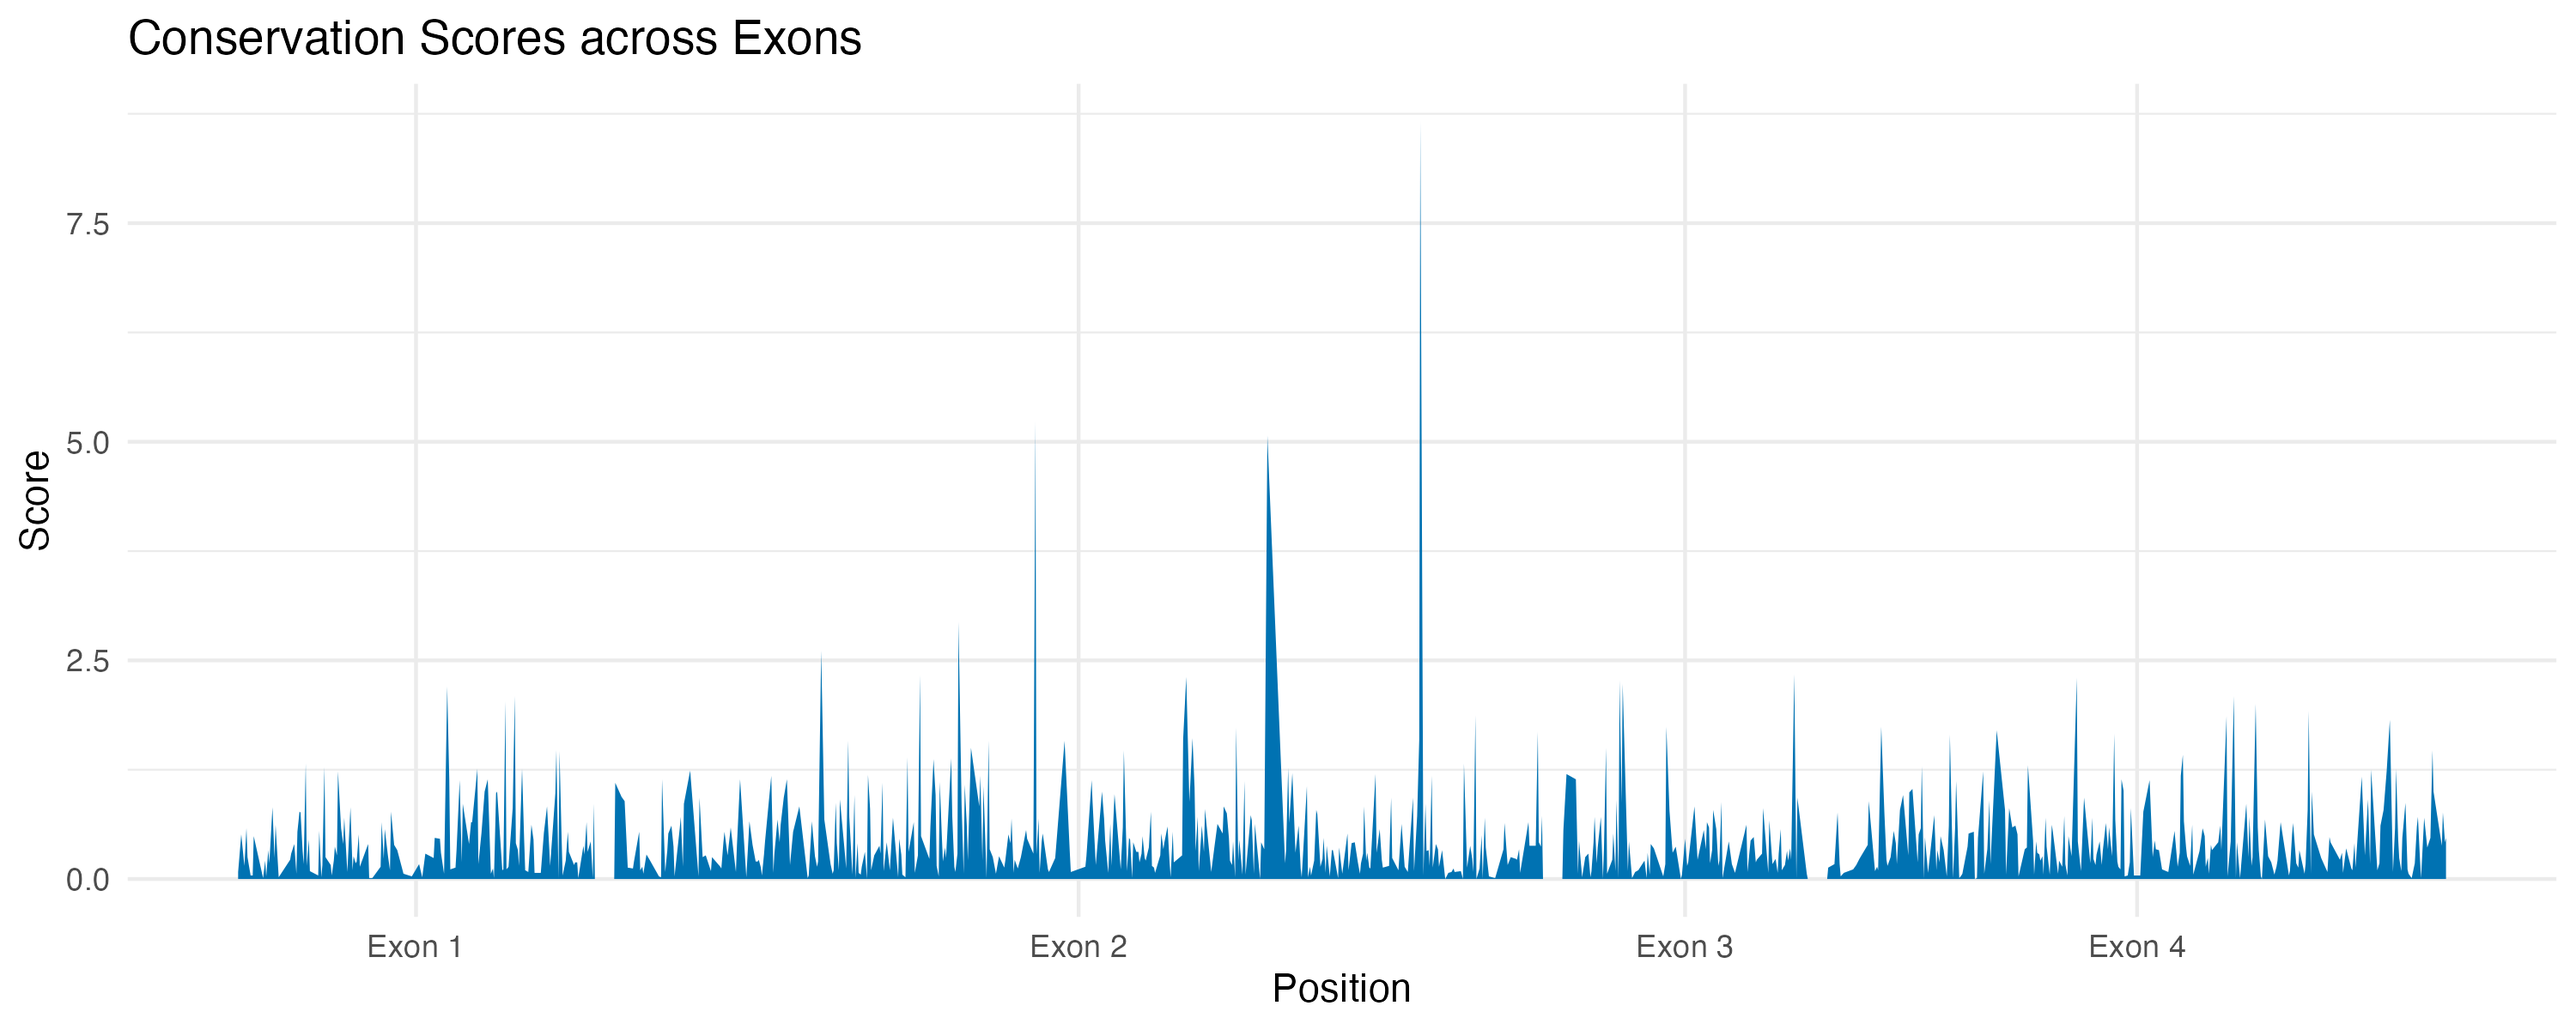
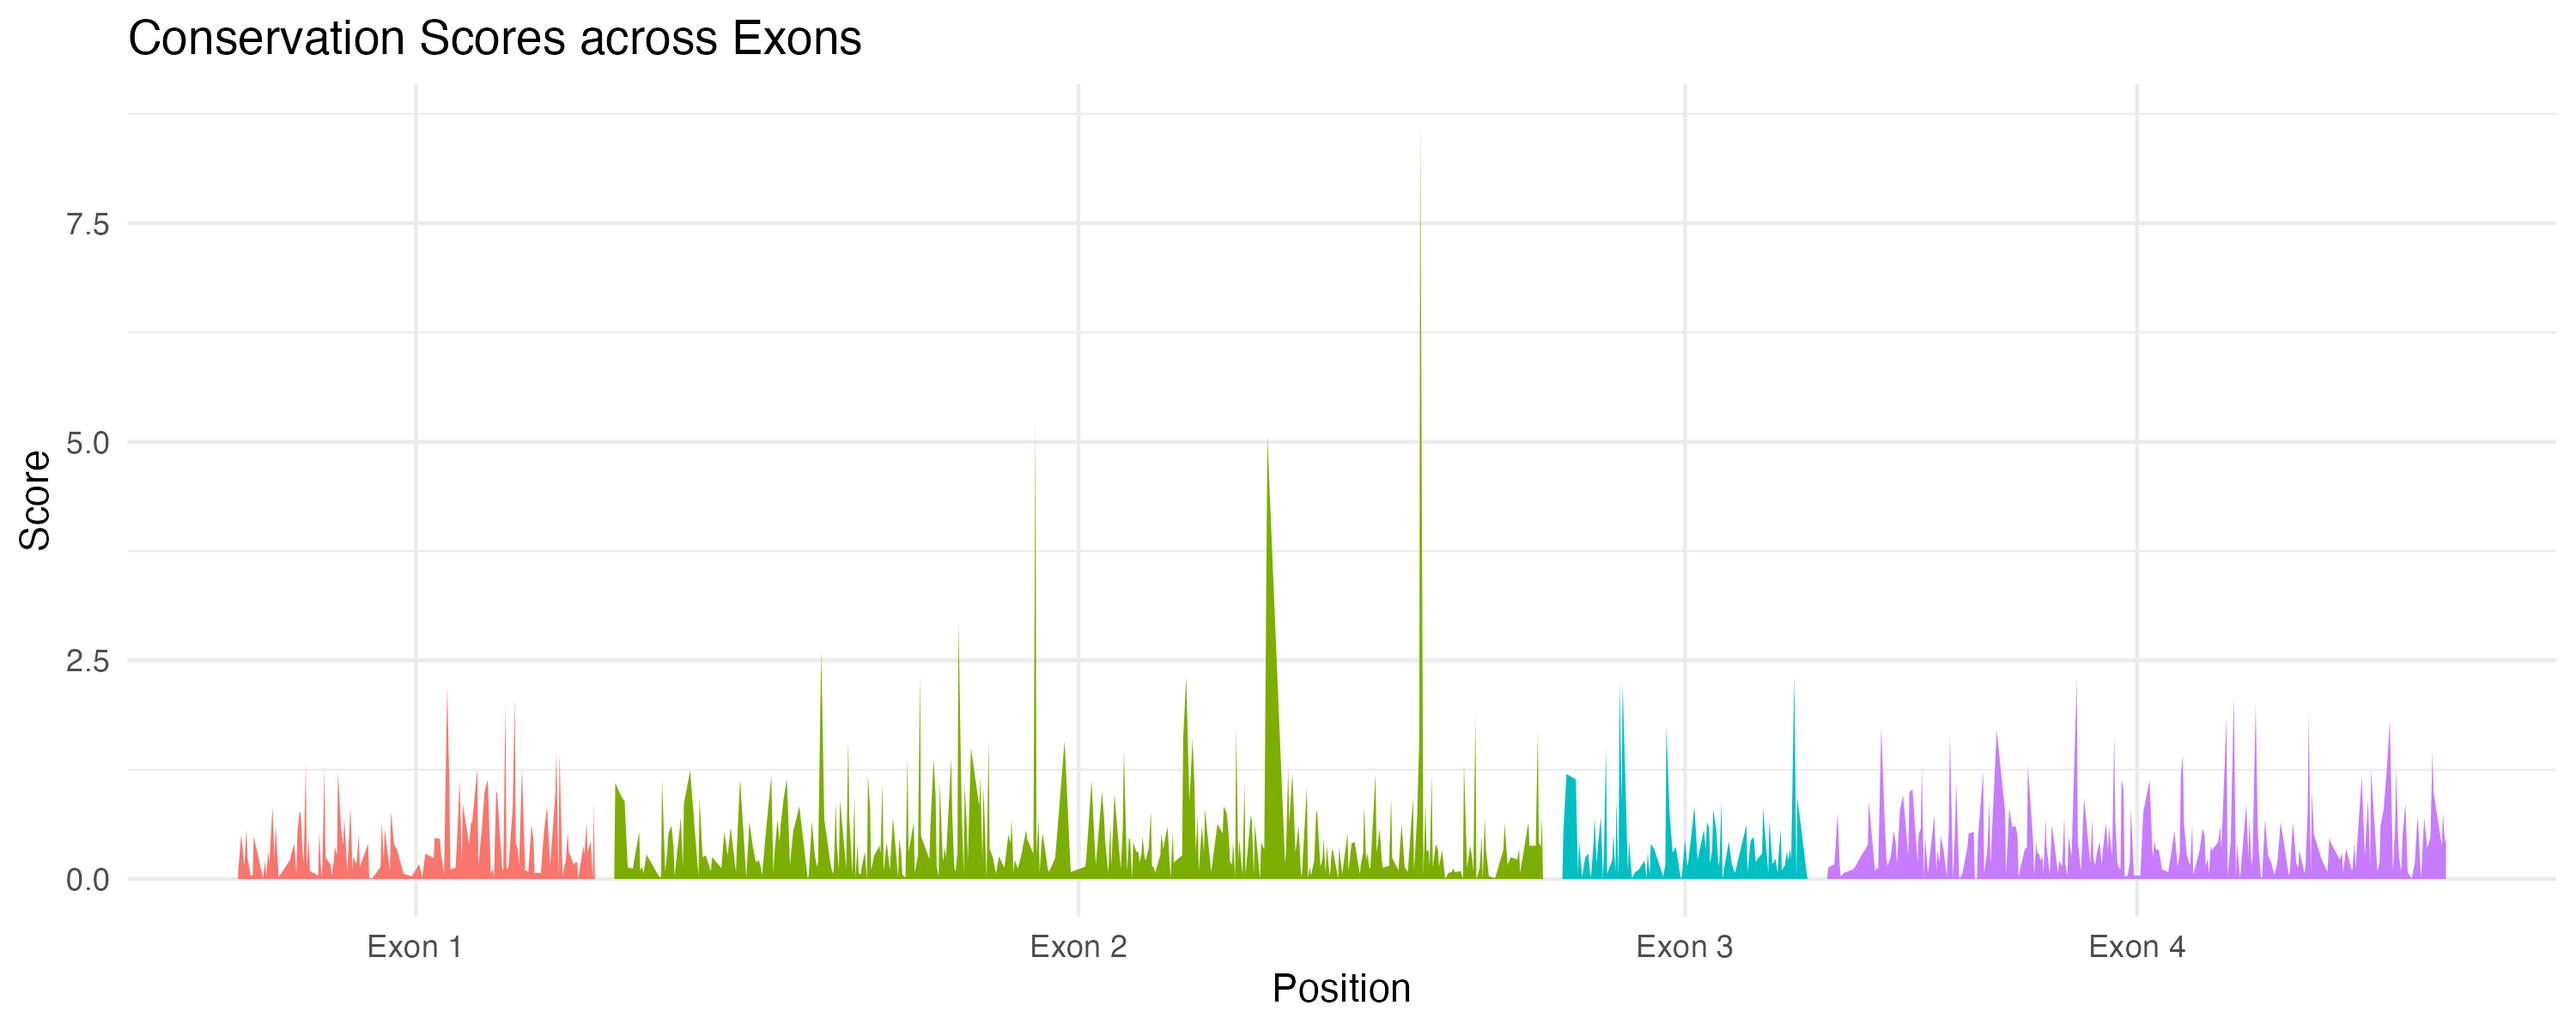
add segment-wise coloring to README examples

Changed region(s): [[0.093, 0.555, 0.961, 0.8633]]

diff --git a/README.md b/README.md
@@ -47,8 +47,8 @@ exon_data <- simulate_serial(
     domain_lengths = c(120, 300, 80, 200)
 )
 
-ggplot(exon_data, aes(x = position, y = log10p, domain = domain)) +
-    geom_area(fill = "#0072B2") +
+ggplot(exon_data, aes(x = position, y = log10p, domain = domain, fill = domain)) +
+    geom_area(show.legend = FALSE) +
     coord_serial() +
     theme_minimal() +
     labs(title = "Conservation Scores across Exons", x = "Position", y = "Score")
@@ -71,8 +71,8 @@ sessions$metric <- ave(rnorm(nrow(sessions)), sessions$domain, FUN = function(x)
     cumsum(x) + runif(1, -10, 10)
 })
 
-ggplot(sessions, aes(x = position, y = metric, domain = domain)) +
-    geom_line(color = "#D55E00") +
+ggplot(sessions, aes(x = position, y = metric, domain = domain, color = domain)) +
+    geom_line(show.legend = FALSE) +
     coord_serial() +
     theme_light() +
     labs(title = "System Load across Sessions", x = "Time (seconds)", y = "Load Metric")
